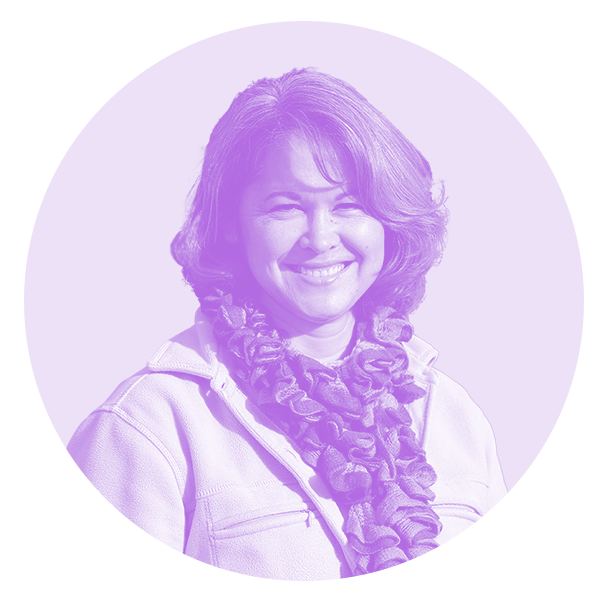
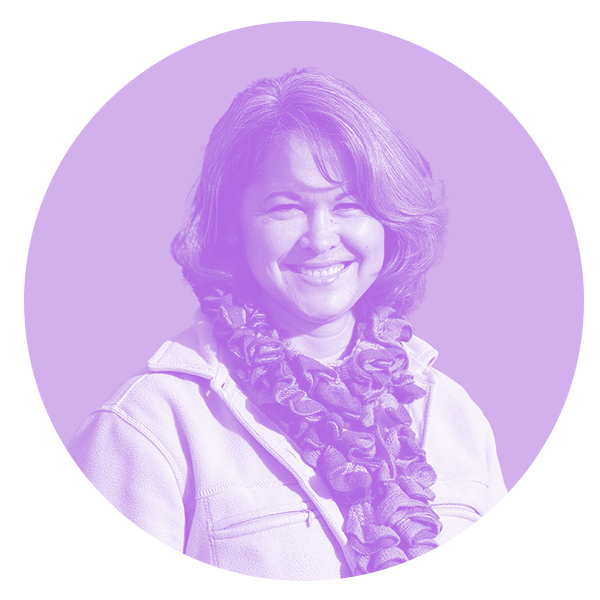
fixed intro3, about to delete old intro 3 js

Changed region(s): [[0.03, 0.03, 0.99, 0.81]]

diff --git a/index.html b/index.html
@@ -88,40 +88,44 @@
 
     <div id="intro3" class="story" style="width:100%; position: relative; background-color: yellow;">
       
-      <div id="wrapperIntro3" class="wrapper">
+      <div id="wrapperIntro3" class="wrapper" style="height: 100vh;">
         
-        <div style="height: 40px"></div>
+        <div style="height: 6vh"></div>
           
         <div class="paraHeader startOpacity0" id="intro3title" style='text-align: center;'>What do you want to know about the students in your community?</div>
 
-        <div style="height: 100px"></div>
+        <div style="height: 10vh"></div>
 
-        <div class="startOpacity0jk" id="intro3banks">
-          <figure id="questionPhotos" class="photoBankJK" style="pointer-events: none;">
-              <img class= "headshotQuestion" id="alicea_question" src="images/alicea_question.png"  alt="square photo of Alicea"/>
-              <img class= "headshotQuestion" id="darin_question" src="images/darin_question.png"  alt="square photo of Darin"/>
-              <img class= "headshotQuestion" id="eileen_question" src="images/eileen_question.png"  alt="square photo of Eileen"/>
+        <div id="intro3banks">
+          <figure id="questionPhotos" style="text-align: center;">
+              <img class= "headshotQuestion" id="eileen_question_purp" src="images/eileen_question_purp.png"  alt="square photo of Eileen"/>
+              <img class= "headshotQuestion" id="alicea_question-purp" src="images/alicea_question_purp.png"  alt="square photo of Alicea"/>
+              <img class= "headshotQuestion" id="darin_question_purp" src="images/darin_question_purp.png"  alt="square photo of Darin"/>
           </figure>
 
-          <div style="height: 10px"></div>
-
-          <figure class="quoteBank">
-              <div class="quote quoteQuestion" id="alicea_question_quote">"It would be interesting to hear about a negative and a positive experience you’ve had with cops. I’m curious if they tell you something that happened to them — or something that happened to one of their friends or family.”</div>
-              <div class="quote quoteQuestion" id="darin_question_quote">"If they've had negative experiences with Alameda police, what could the officer have done to make that contact positive? Is it an officer's demeanor? The words they use?  Body language? And if you’ve had good experiences, what made it a good experience?”</div>
-              <div class="quote quoteQuestion" id="eileen_question_quote">"I would like to ask them: How many positive police contacts and how many negative police contacts they’ve had? Because I think that’s huge.”</div>
-          </figure>
+<!--           <div style="height: 10px"></div>
+ -->
+         <!--  <figure class="quoteBank">
+               
+          </figure> -->
         
         </div>
-      
+
       </div>
 
-      <div id="defineHeightIntro3" style="width:100%; z-index: 1002; opacity: .5; height:200px; background-color: goldenrod;"></div>
+      <div class="QuestionQuoteBank quoteBank" id="defineTimeIntro3" style="width:100%; opacity: .5; height: 50vh; background-color: goldenrod; pointer-events: none;">
+          
+        <div class="quoteQuestion" id="eileen_question_quote">"How many positive vs. negative police contacts have you had? Because I think that’s huge.”<br><span style="font-weight: 100; font-style: normal;">- Eileen (Sergeant)</span></div>
+        <div class="quoteQuestion" id="alicea_question_quote">"And I’m curious if they tell you something that happened to them — or to a friend or family member.”<br><span style="font-weight: 100; font-style: normal;">- Alicea (Officer)</div>
+        <div class="quoteQuestion" id="darin_question_quote">"If they've had negative experiences, what could the officer have done to make that contact positive?”<br><span style="font-weight: 100; font-style: normal;">- Darin (Sergeant)</div>
 
+      </div>
+      
     </div>
 
-    <div id="intro4" class="story" style="width:100%; position: relative; background-color: cyan;">
+     <!--  <div id="defineHeightIntro3" style="width:100%; z-index: 1002; opacity: .5; height:200px; background-color: goldenrod;"></div> -->
 
-      <div style="height: 170px"></div>
+    <div id="intro4" class="story" style="width:100%; position: relative; background-color: cyan;">
 
       <p>
         So we started there, with the officers’ desire to know how much of local mistrust or antipathy toward police was coming from the media (from footage and descriptions of violence in other places), and how much of it was coming from students’ lived experience. 

diff --git a/js/script.js b/js/script.js
@@ -223,6 +223,28 @@ $('#defineHeightIntro2a').waypoint(function (direction) {
   }
 });
 
+//Fade intro3 photos a lil bit on quote scroll in
+$('#defineTimeIntro3').waypoint(function (direction) {
+  if(direction == 'down'){
+    console.log("fade out a lil intro 3 photos");
+    $('#questionPhotos').animate({"opacity": .3}, "slow");
+  } else {
+    console.log("fade in a lil intro 3 photos");
+    $('#questionPhotos').animate({"opacity": 1}, "slow");
+  }
+}, {offset: '60%'});
+
+//Re/un-stick Intro3
+$('#intro4').waypoint(function (direction) {
+  if(direction == 'down'){
+    $('#wrapperIntro3').removeClass('stuck').addClass('sticky-surpassed');
+    console.log ('Un-stick intro 3');
+  } else {
+    $('#wrapperIntro3').removeClass('sticky-surpassed').addClass('stuck');
+    console.log ('Re-stick intro 3');
+  }
+}, {offset: '100%'});
+
 //Fade in/out intro3 photos and quotes when #defineHeightIntro2a hits top of screen- muted for now, for reseting triggers test
 // $('#defineHeightIntro2a').waypoint(function (direction) {
 //   console.log('Hello intro3 photos and quotes');
@@ -234,15 +256,15 @@ $('#defineHeightIntro2a').waypoint(function (direction) {
 // }, {offset: -150});
 
 // Un-sticking intro3 for scroll away
-$('#intro4').waypoint(function(direction) {
-  console.log ('Bye intro3');
-  if(direction == 'down'){
-    $('#wrapperIntro3').removeClass('stuck').addClass('sticky-surpassed');
-  } else {
-    $('#wrapperIntro3').removeClass('sticky-surpassed').addClass('stuck');
-    // console.log ('Who,s bad going UPtown?');
-  }
-}, {offset: '100%'});
+// $('#intro4').waypoint(function(direction) {
+//   console.log ('Bye intro3');
+//   if(direction == 'down'){
+//     $('#wrapperIntro3').removeClass('stuck').addClass('sticky-surpassed');
+//   } else {
+//     $('#wrapperIntro3').removeClass('sticky-surpassed').addClass('stuck');
+//     // console.log ('Who,s bad going UPtown?');
+//   }
+// }, {offset: '100%'});
 
 //Fade in/out intro4title and when #intro4 hits top of screen
 $('#intro4').waypoint(function (direction) {

diff --git a/css/styles.css b/css/styles.css
@@ -133,8 +133,17 @@ p {
 }
 
 .quoteQuestion{
-    max-width: 22%;
-    padding: 0% 2.9%;
+    max-width: 26%;
+    padding: 0% 2%;
+    display: inline-block;
+    font-family: "Lato";
+    font-weight: 300;
+    font-style: italic;
+    font-size: 1.3em;
+    line-height: 27px;
+    text-align: center;
+    vertical-align: top;
+}
 }
 
 .quoteInteractions{
@@ -147,9 +156,9 @@ p {
     cursor: pointer;
 }
 .headshotQuestion{
-    max-width: 17%;
+    max-width: 19%;
     width: 100%;
-    padding: 0% 5%;
+    padding: 0% 5.5%;
 }
 
 .headshotInteractions{
